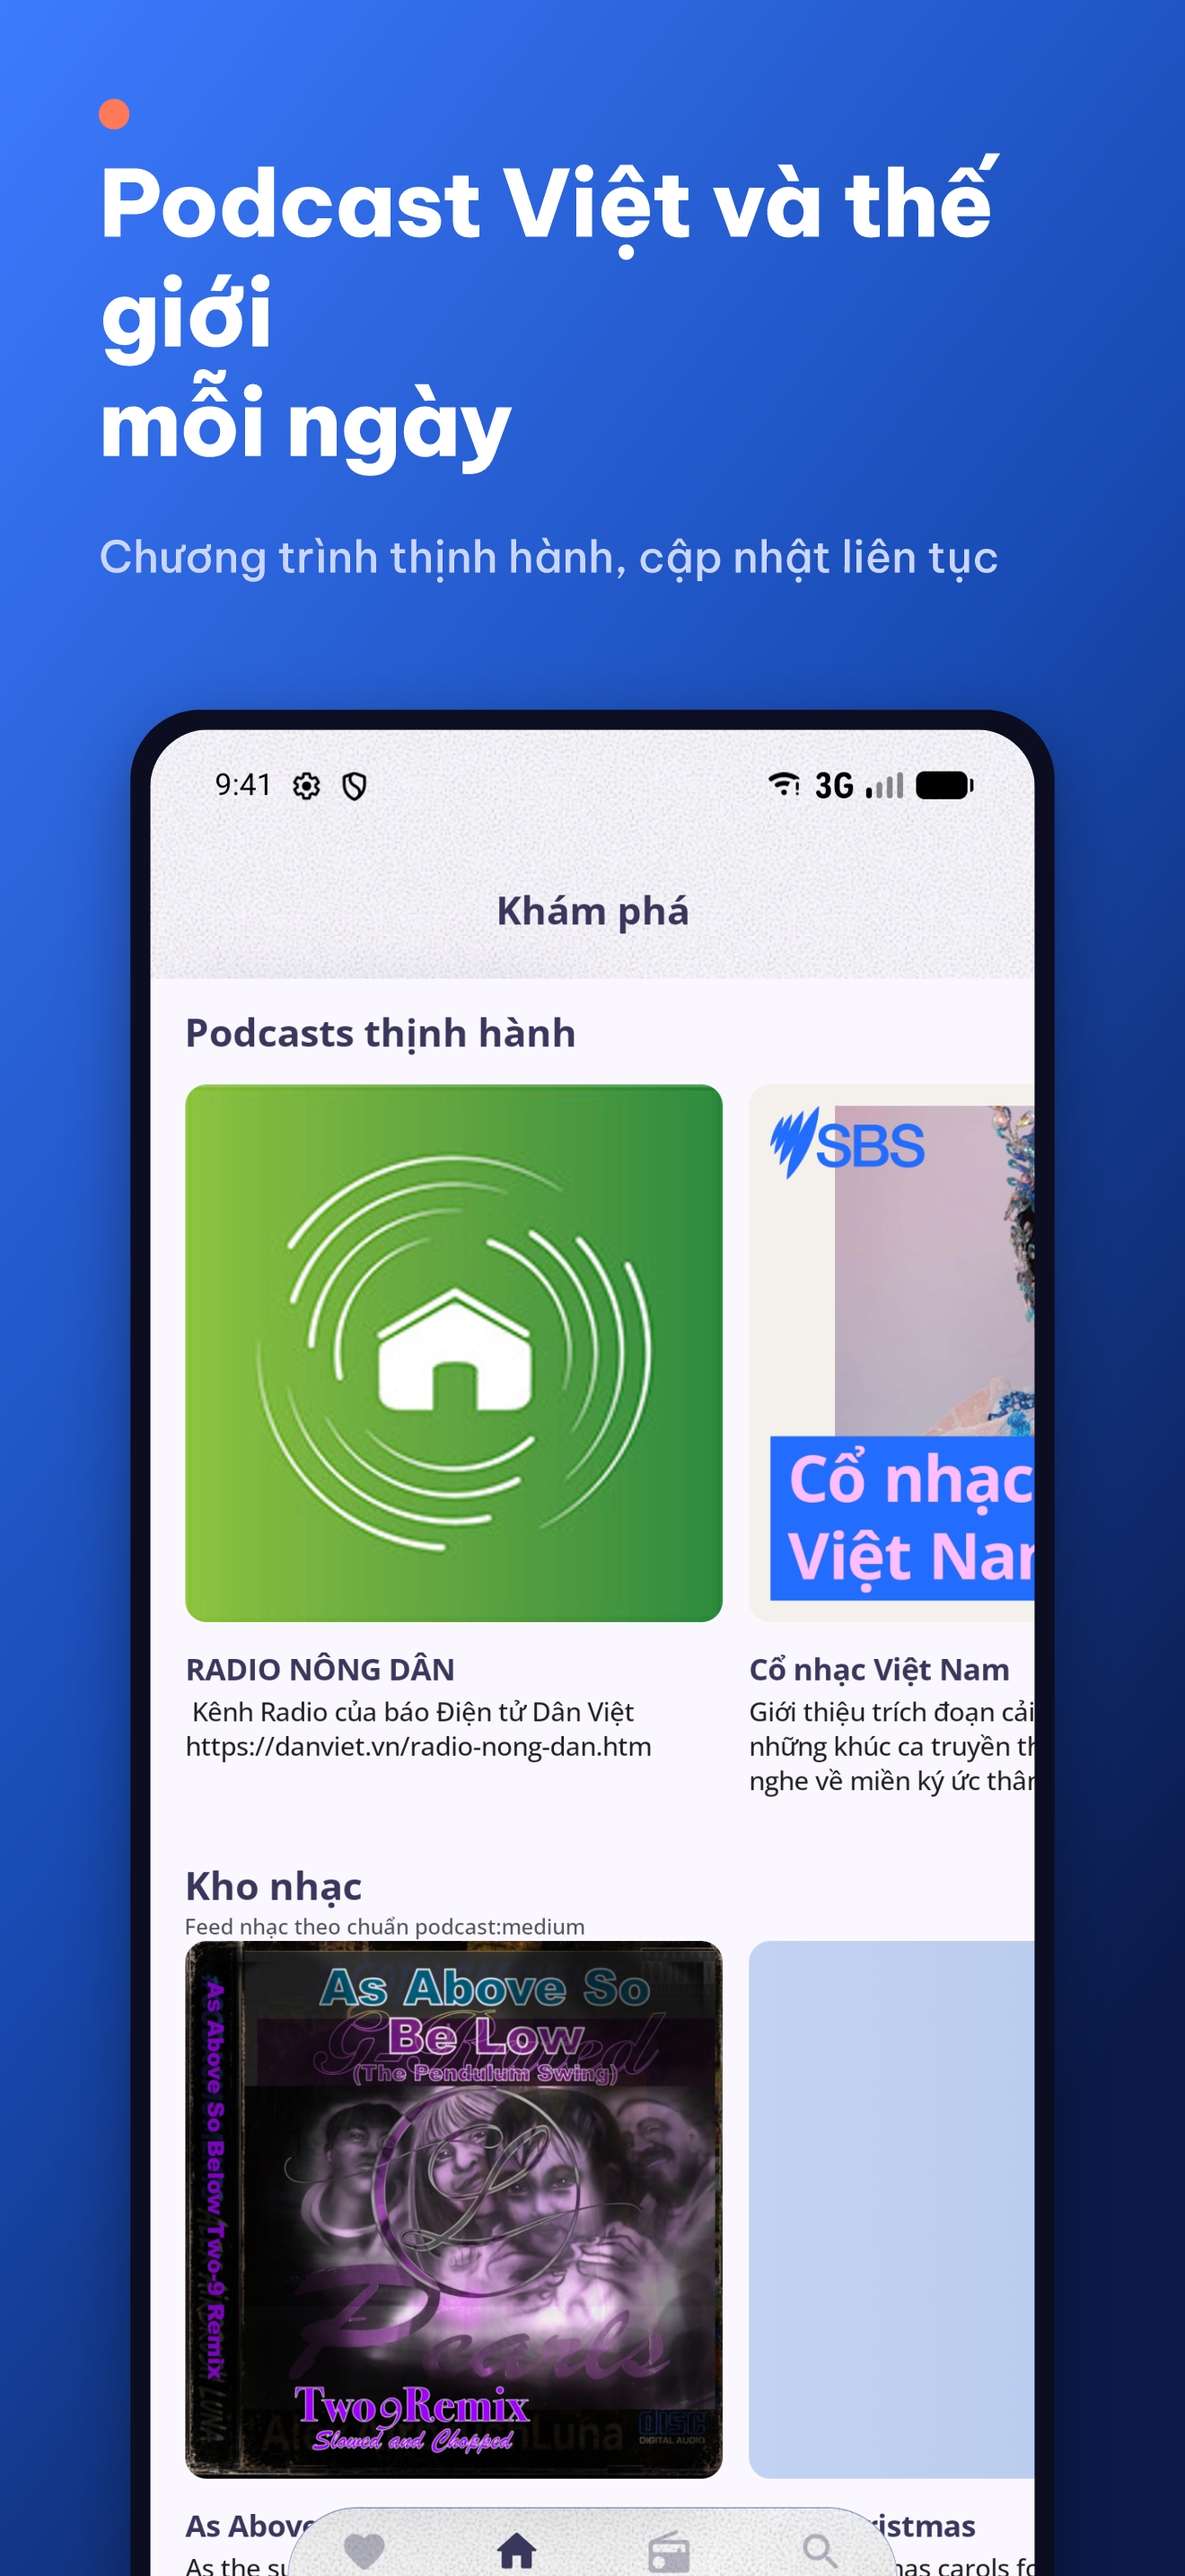
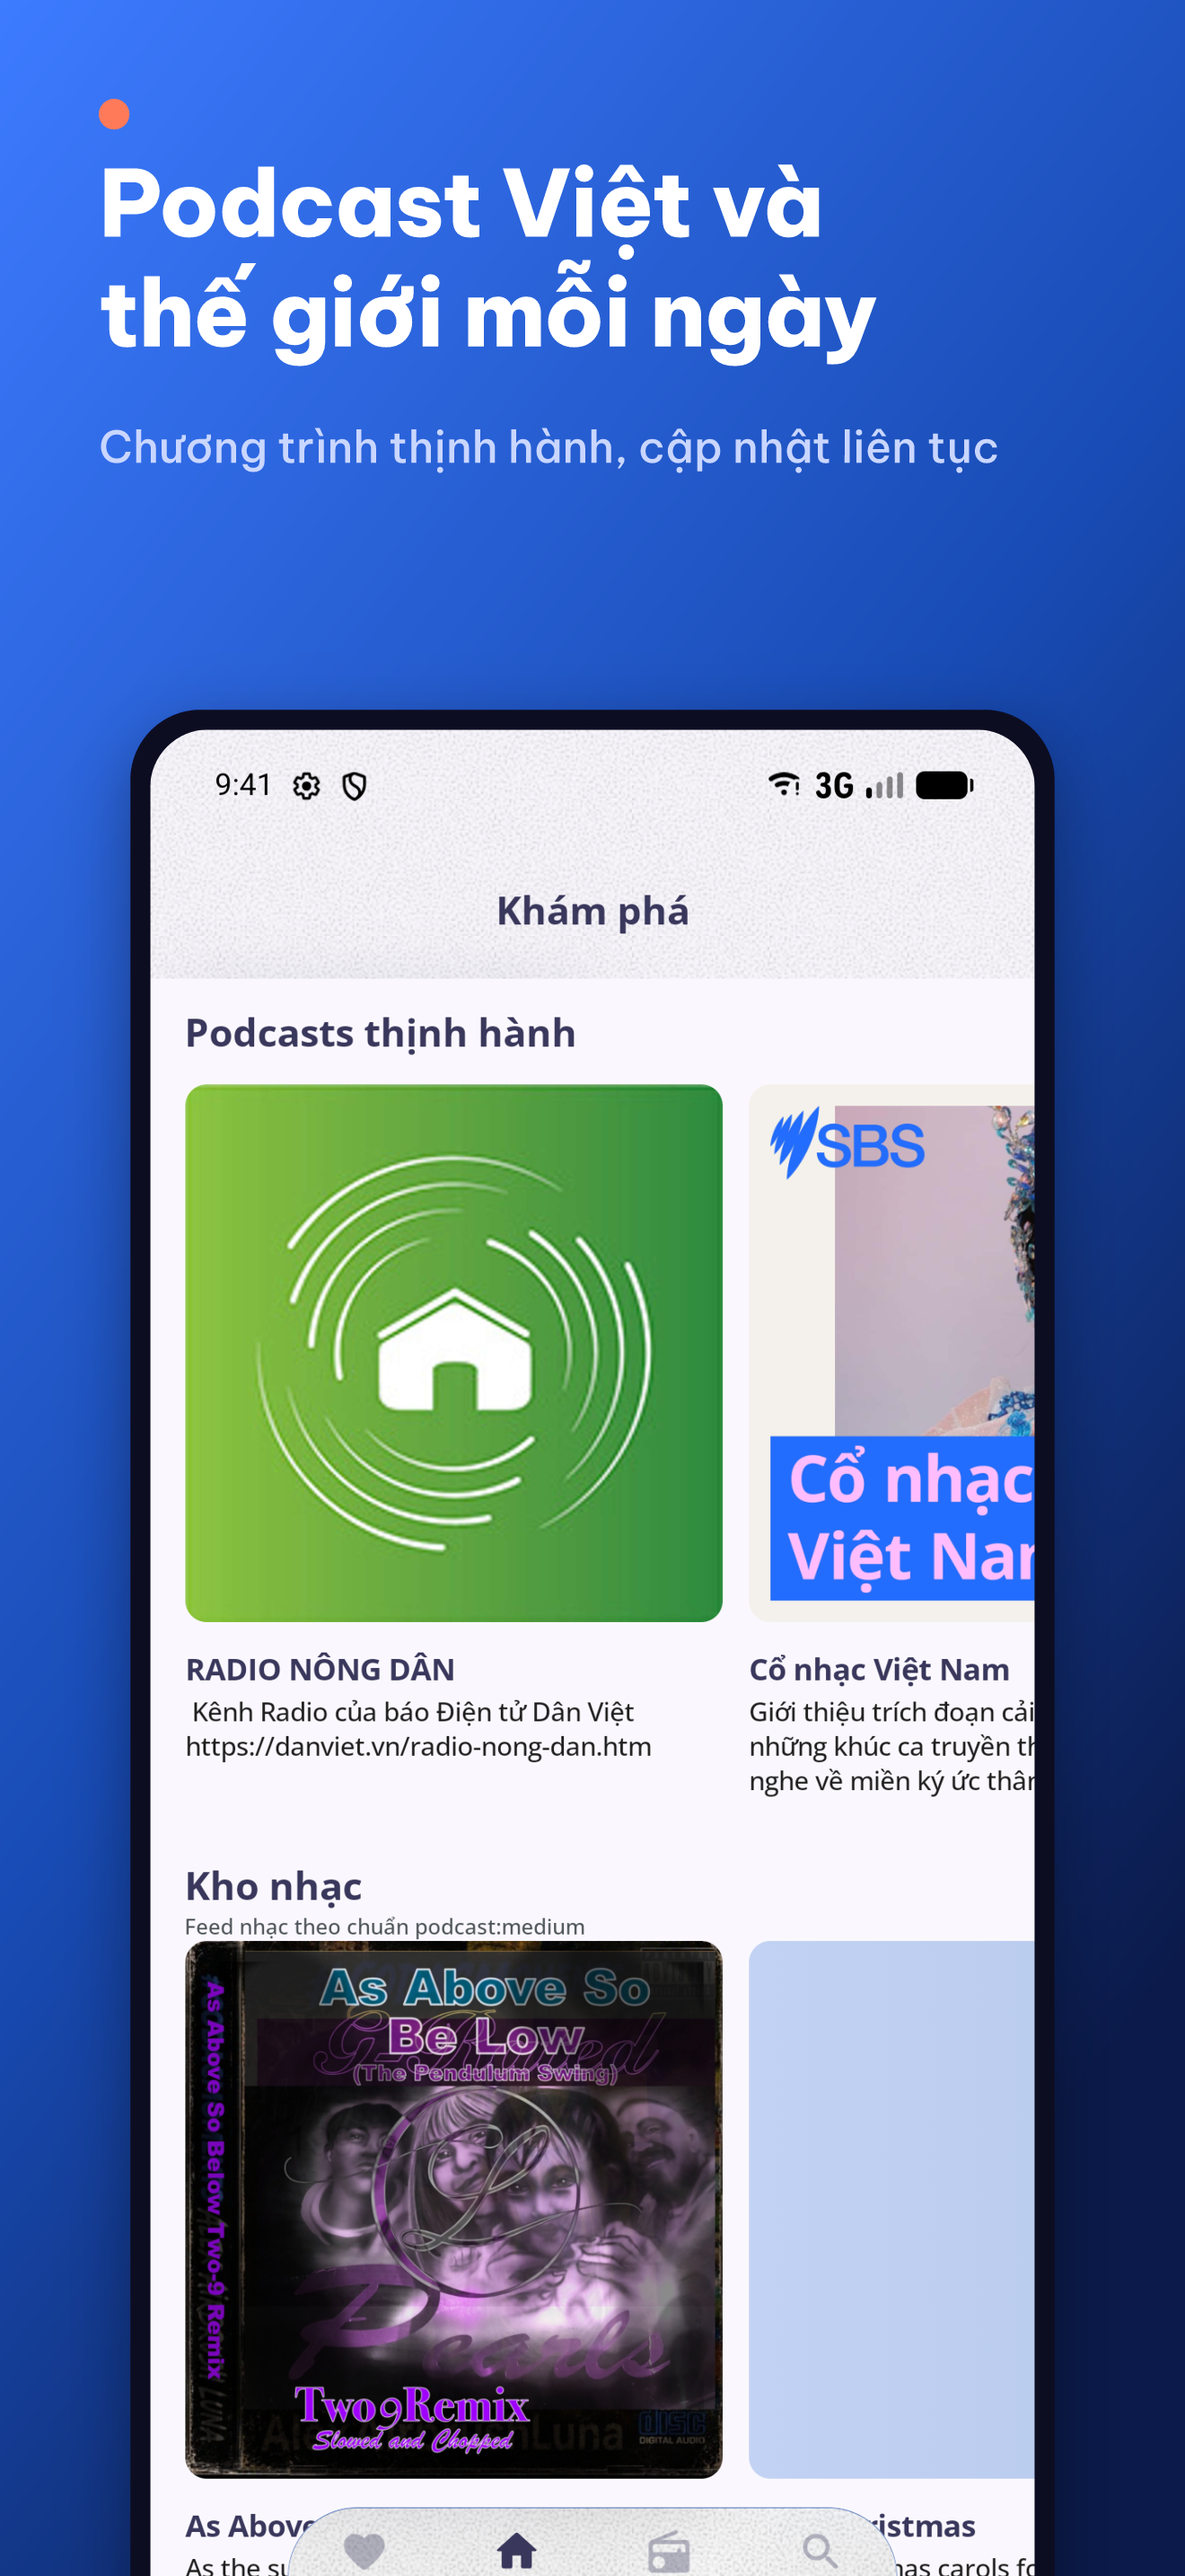
fix(store): drop superlative claims from store art and fix search title typo
Vietnam's advertising law forbids "nhất"/"số 1"-style claims without proof,
and Google Play bans ranking claims in store graphics.

- Screenshot templates and frame.js default: "Nghe podcast Việt hay nhất"
  -> "Nghe podcast Việt mỗi ngày"; drop the "hàng nghìn chương trình" sub
- BRAND.md: same headline suggestion plus a note on banned superlatives
- Screenshot 01: break the headline as "Podcast Việt và / thế giới mỗi ngày"
  instead of splitting "thế / giới"; Play listing copies updated
- search_result_title: "Kết qủa" -> "Kết quả"

Changed region(s): [[0.0621, 0.0931, 0.528, 0.1862], [0.5591, 0.0621, 0.8386, 0.2483]]

diff --git a/brand/scripts/frame.js b/brand/scripts/frame.js
@@ -1,7 +1,7 @@
 #!/usr/bin/env node
 // Store screenshot framer: wraps a raw device screenshot in brand artwork with a headline.
 //
-//   node frame.js --preset play  --headline "Nghe podcast Việt hay nhất" --sub "..." in.png out.png
+//   node frame.js --preset play  --headline "Nghe podcast Việt\nmỗi ngày" --sub "..." in.png out.png
 //   node frame.js --preset ios69 --theme light --headline "..." in.png out.png
 //   node frame.js --batch ../store/screenshots/examples.json      (see that file for the format)
 //   node frame.js --templates                                     (re-writes brand/store/templates/*.svg)
@@ -119,7 +119,7 @@ function writeTemplates() {
     ['ios69', 'appstore-6.9in-1320x2868.svg'],
   ];
   for (const [preset, name] of examples) {
-    const svg = frameSvg({ preset, headline: 'Nghe podcast Việt hay nhất', sub: 'Hàng nghìn chương trình, cập nhật mỗi ngày', href: 'screenshot.png', shotW: 1080, shotH: 2340, outline: false });
+    const svg = frameSvg({ preset, headline: 'Nghe podcast Việt\nmỗi ngày', sub: 'Chương trình thịnh hành, cập nhật liên tục', href: 'screenshot.png', shotW: 1080, shotH: 2340, outline: false });
     L.writeText(path.join(dir, name), svg);
   }
 }

diff --git a/brand/BRAND.md b/brand/BRAND.md
@@ -163,8 +163,8 @@ toàn (vòng cam); themed icon; và icon thanh trạng thái ở 1x, 2x, 3x.
 ```bash
 cd brand/scripts
 # một ảnh
-node frame.js --preset play  --headline "Nghe podcast Việt hay nhất" \
-  --sub "Hàng nghìn chương trình, cập nhật mỗi ngày" in.png out.png
+node frame.js --preset play  --headline "Nghe podcast Việt\nmỗi ngày" \
+  --sub "Chương trình thịnh hành, cập nhật liên tục" in.png out.png
 node frame.js --preset ios69 --theme light --headline "Kho nhạc mở,\nnghe thả ga" in.png out.png
 # nhiều ảnh: sửa ../store/screenshots/examples.json, đặt ảnh thật vào raw/, rồi chạy
 node frame.js --batch ../store/screenshots/examples.json
@@ -177,9 +177,14 @@ node frame.js --batch ../store/screenshots/examples.json
 - Ảnh trong `store/screenshots/raw/` hiện chỉ là **ảnh minh hoạ**. Hãy thay bằng ảnh chụp màn hình thật,
   ví dụ `adb exec-out screencap -p > raw/01-kham-pha.png`, rồi chạy lại.
 
-Gợi ý headline (ngắn, động từ đặt trước, tối đa khoảng 30 ký tự mỗi dòng):
+Gợi ý headline (ngắn, động từ đặt trước, tối đa khoảng 30 ký tự mỗi dòng).
 
-1. **Nghe podcast Việt hay nhất**: Hàng nghìn chương trình, cập nhật mỗi ngày
+> **Không dùng từ so sánh tuyệt đối** như "nhất", "hay nhất", "tốt nhất", "số 1", "duy nhất",
+> "hàng đầu" trong headline, ảnh store hay mô tả. Luật Quảng cáo cấm các từ này khi không có
+> tài liệu chứng minh, và Google Play cũng không cho dùng chúng trong tên, icon, ảnh store.
+> Hãy mô tả điều app làm được thay vì xếp hạng nó.
+
+1. **Nghe podcast Việt mỗi ngày**: Chương trình thịnh hành, cập nhật liên tục
 2. **Radio trực tuyến, bật là nghe**: Đài trong nước và quốc tế, phát trực tiếp
 3. **Kho nhạc mở, nghe thả ga**: Feed nhạc theo chuẩn Podcasting 2.0
 4. **Gom kênh yêu thích về một chỗ**: Mở app là nghe ngay kênh bạn theo dõi
